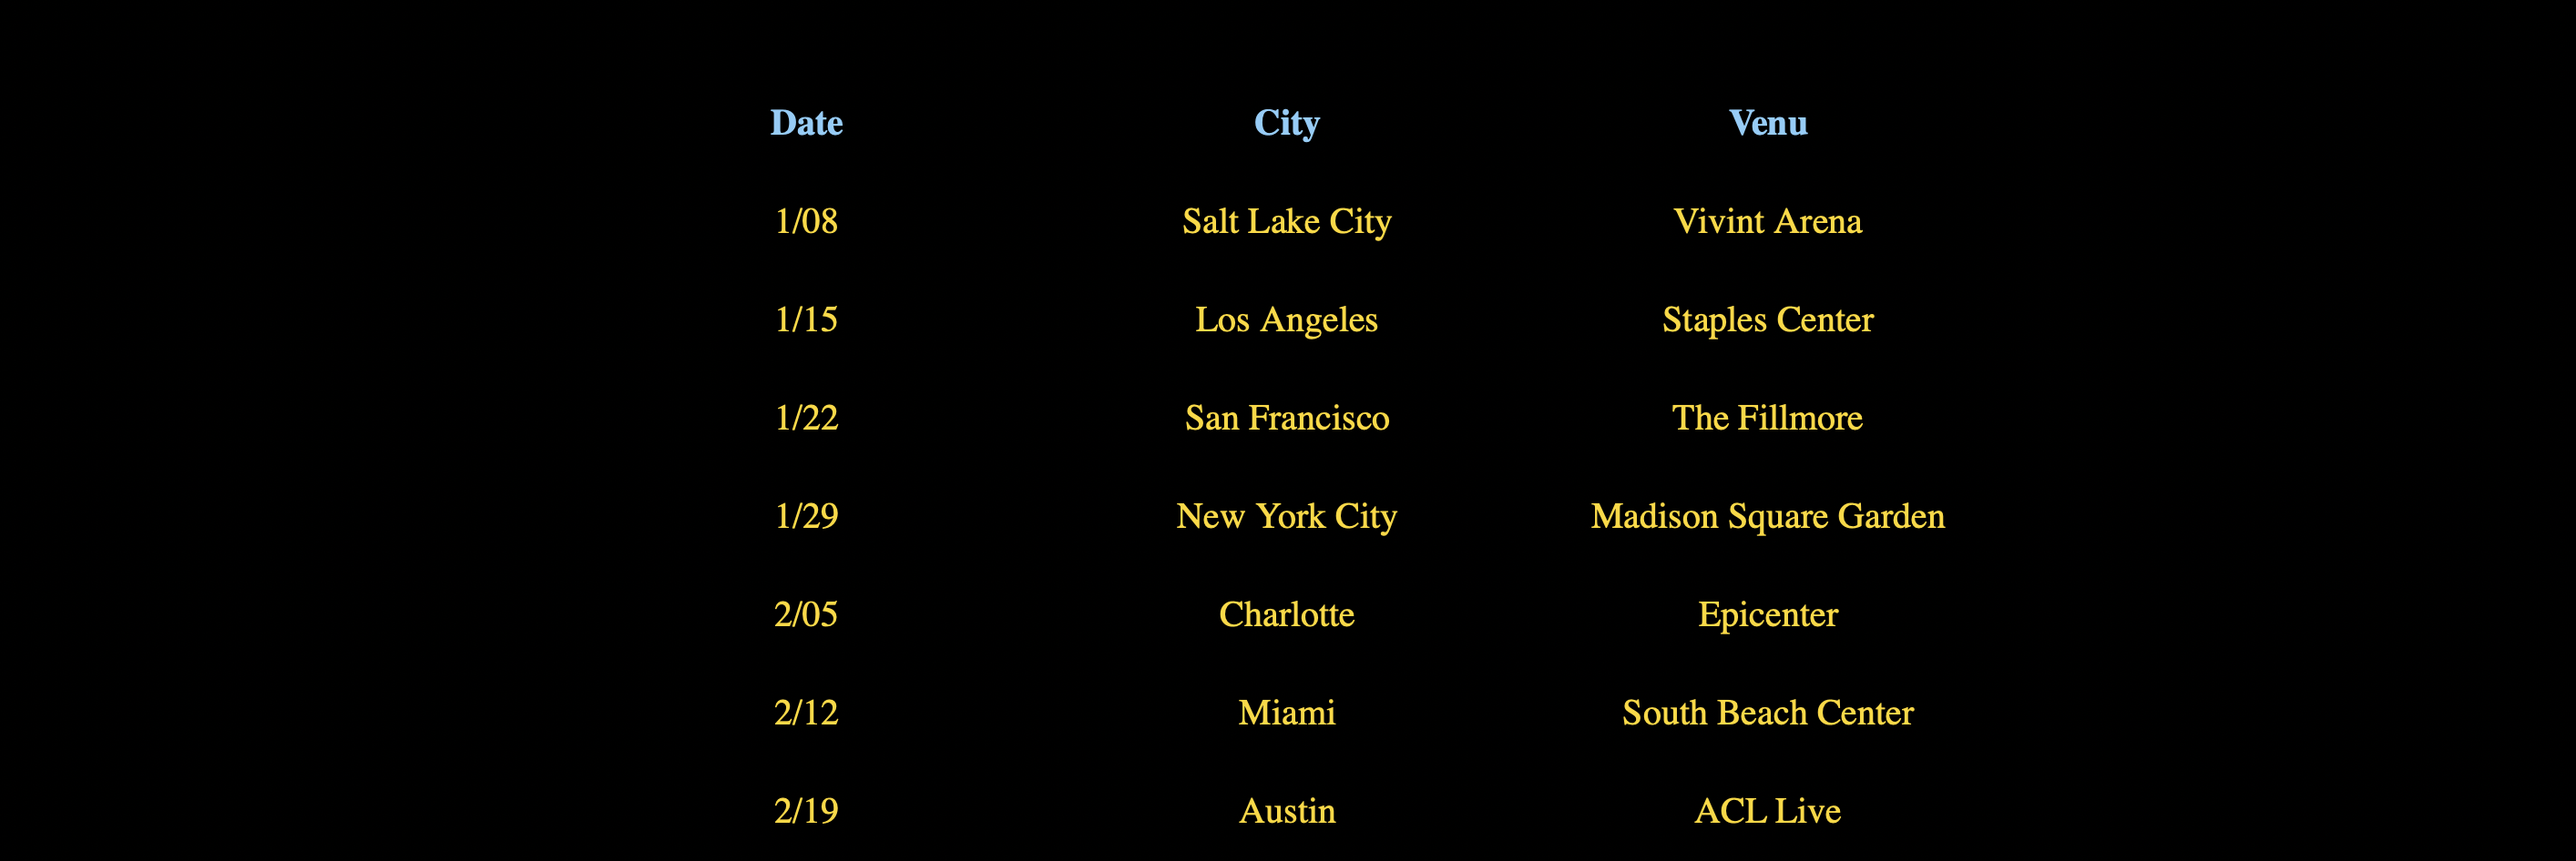
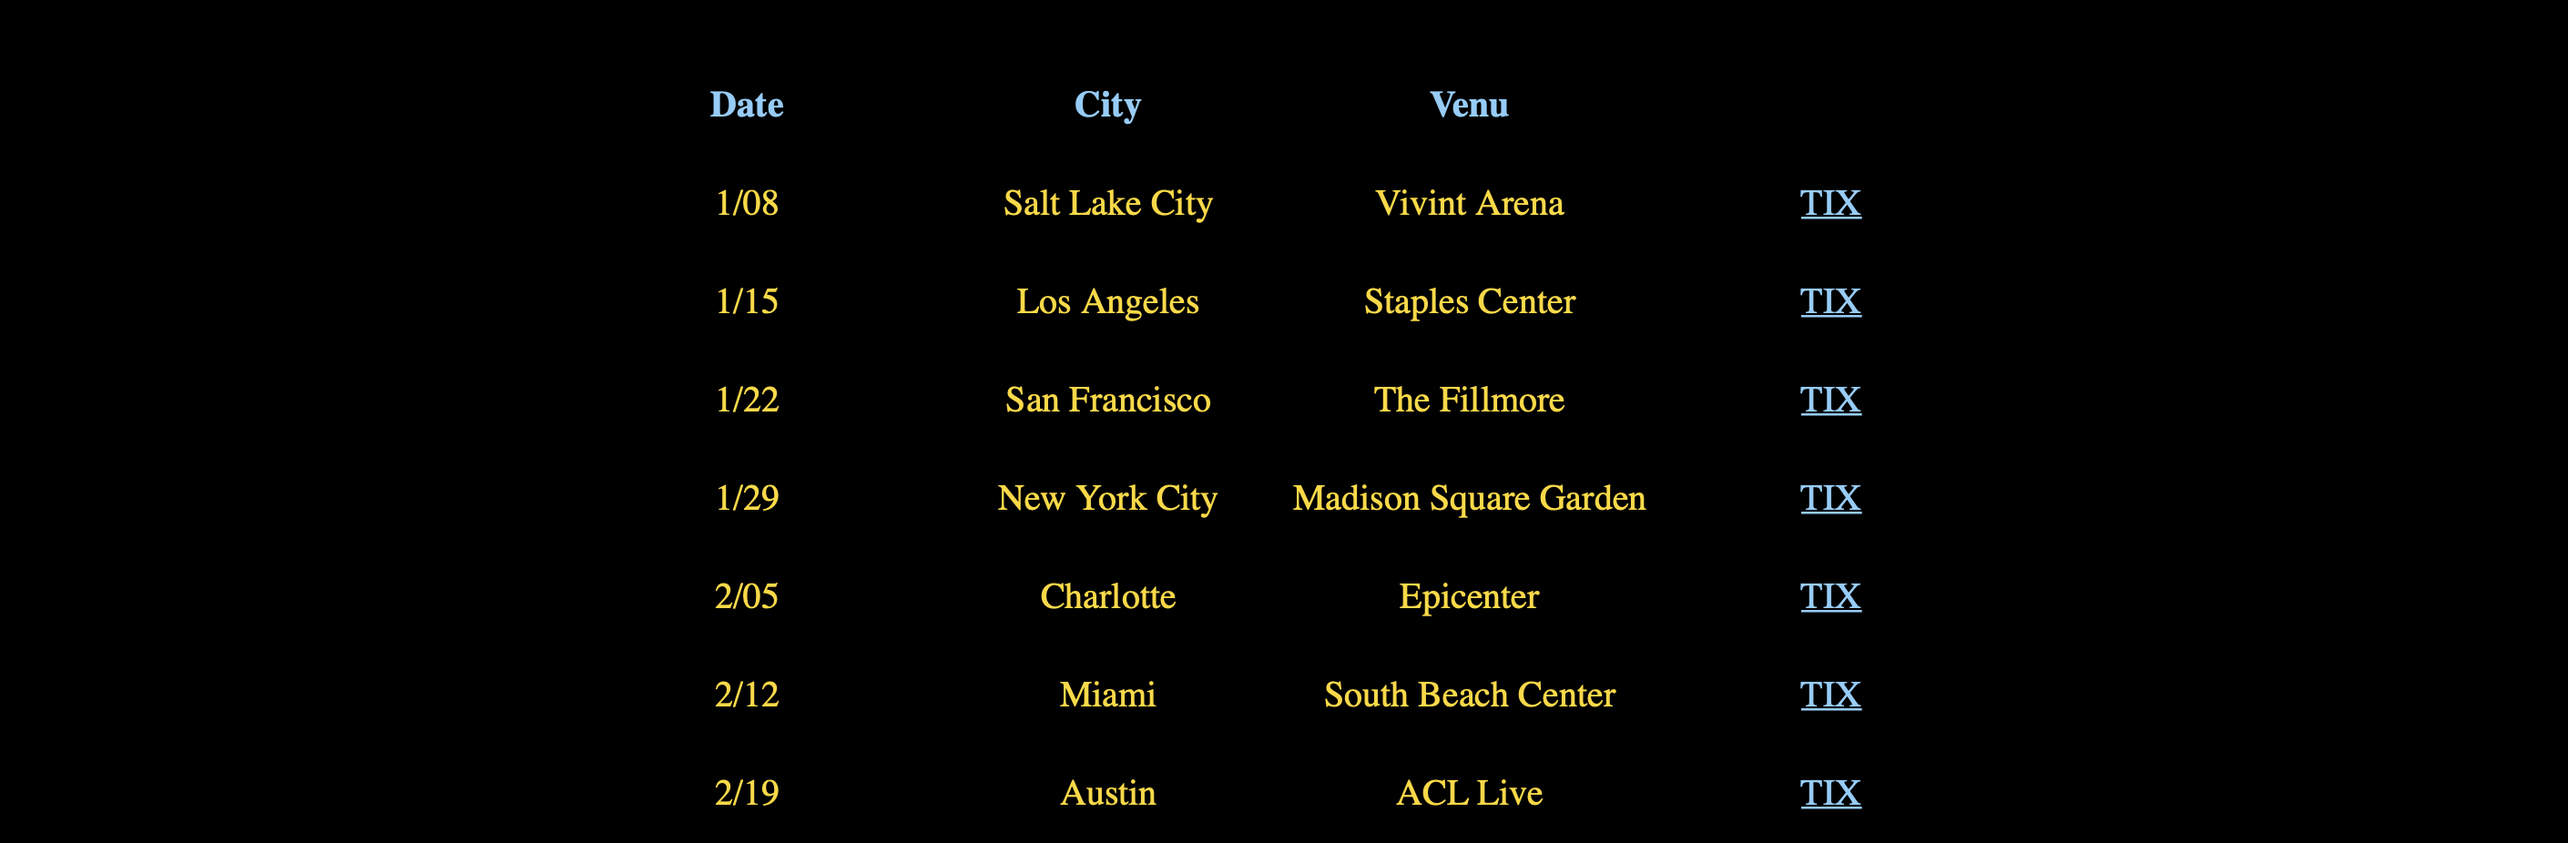
added tix

diff --git a/index.html b/index.html
@@ -24,41 +24,49 @@
             <th>Date</th>
             <th>City</th> 
             <th>Venu</th>
+            <!-- <th>Buy Now</th> -->
         </tr>
         <tr>
             <td>1/08</td>
             <td>Salt Lake City</td> 
             <td>Vivint Arena</td>
+            <td><a href="https://www.ticketmaster.com">TIX</a></td>
         </tr>
         <tr>
             <td>1/15</td>
             <td>Los Angeles</td> 
             <td>Staples Center</td>
+            <td><a href="https://www.ticketmaster.com">TIX</a></td>
         </tr>
         <tr>
             <td>1/22</td>
             <td>San Francisco</td> 
             <td>The Fillmore</td>
+            <td><a href="https://www.ticketmaster.com">TIX</a></td>
           </tr>
         <tr>
             <td>1/29</td>
             <td>New York City</td> 
             <td>Madison Square Garden</td>
+            <td><a href="https://www.ticketmaster.com">TIX</a></td>
         </tr>
         <tr>
             <td>2/05</td>
             <td>Charlotte</td> 
             <td>Epicenter</td>
+            <td><a href="https://www.ticketmaster.com">TIX</a></td>
         </tr>
         <tr>
             <td>2/12</td>
             <td>Miami</td> 
             <td>South Beach Center</td>
+            <td><a href="https://www.ticketmaster.com">TIX</a></td>
         </tr>
         <tr>
             <td>2/19</td>
             <td>Austin</td> 
             <td>ACL Live</td>
+            <td><a href="https://www.ticketmaster.com">TIX</a></td>
         </tr>
     </table>
 

diff --git a/style.css b/style.css
@@ -44,3 +44,11 @@ td {
     text-align: center;
     width: 25%;
 }
+
+a {
+    color: lightskyblue;
+}
+
+a:hover {
+    color: gold;
+}
